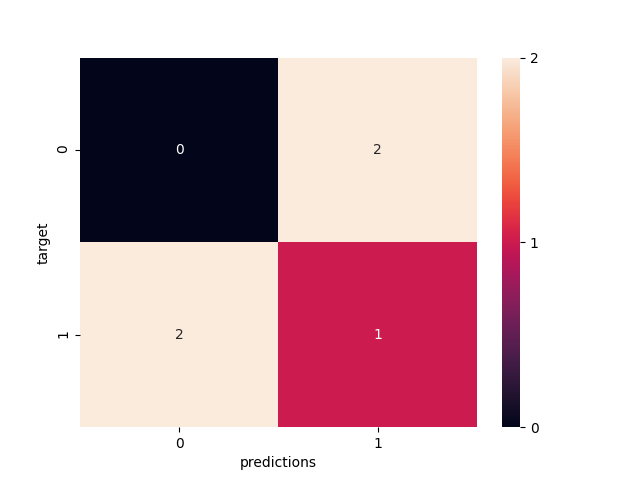
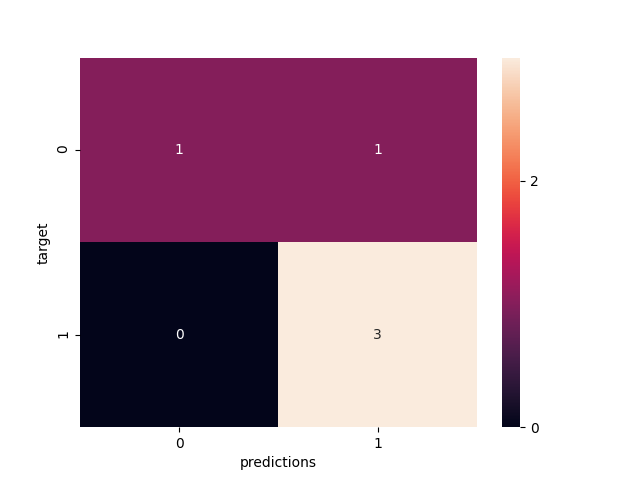
log fullprocess

diff --git a/scripts/fullprocess.py b/scripts/fullprocess.py
@@ -2,51 +2,64 @@ import ast
 import json
 import os
 import sys
+import logging
 
 import pandas as pd
 
 from scripts.scoring import score_model
 
-with open("config.json", "r") as f:
-    config = json.load(f)
+logging.basicConfig(level=logging.INFO, format="%(asctime)-15s %(message)s")
+logger = logging.getLogger()
 
-prod_deployment_path = os.path.join(config["prod_deployment_path"])
-input_folder_path = os.path.join(config["input_folder_path"])
-output_folder_path = config["output_folder_path"]
 
-# Check and read new data
-# first, read ingestedfiles.txt
-with open(prod_deployment_path + "/ingestedfiles.txt", "r") as f:
-    ingestedfiles = ast.literal_eval(f.read())
-# second, determine whether the source data folder has files that aren't listed in ingestedfiles.txt
-current_files = os.listdir(input_folder_path)
-new_files = [x for x in current_files if x not in ingestedfiles]
+def check_new_data(input_folder_path):
+    logging.info(f"Read data from {input_folder_path}")
+    with open(prod_deployment_path + "/ingestedfiles.txt", "r") as f:
+        ingestedfiles = ast.literal_eval(f.read())
+    current_files = os.listdir(input_folder_path)
+    new_files = [x for x in current_files if x not in ingestedfiles]
+    return new_files
 
-# Deciding whether to proceed, part 1
-# if you found new data, you should proceed. otherwise, do end the process here
-if new_files == []:
-    sys.exit()
 
-os.system("python -m scripts.ingestion")
-# Checking for model drift
-# check whether the score from the deployed model is different from the score from the model that uses the newest ingested data
-with open(prod_deployment_path + "/latestscore.txt", "r") as f:
-    latestscore = ast.literal_eval(f.read())
 
-most_recent_data = pd.read_csv(output_folder_path + "/finaldata.csv")
-new_score = score_model(most_recent_data)
-# Deciding whether to proceed, part 2
-# if you found model drift, you should proceed. otherwise, do end the process here
-if new_score >= latestscore:
-    sys.exit()
-else:
-    # Re-deployment
-    # if you found evidence for model drift, re-run the deployment.py script
-    os.system("python -m scripts.training")
-    os.system("python -m scripts.deployment")
+def check_model_drift(output_folder_path, prod_deployment_path, output_model_path):
+    with open(prod_deployment_path + "/latestscore.txt", "r") as f:
+        latestscore = ast.literal_eval(f.read())
 
-# Diagnostics and reporting
-# run diagnostics.py and reporting.py for the re-deployed model
-os.system("python -m scripts.reporting")
-os.system("python -m scripts.app")
-os.system("python -m scripts.apicalls")
+    most_recent_data = pd.read_csv(output_folder_path + "/finaldata.csv")
+    new_score = score_model(prod_deployment_path, output_model_path, most_recent_data, dropped_columns = ['corporation'])
+
+    model_drift = new_score < latestscore
+    return model_drift
+
+
+if __name__ == '__main__':
+    with open("config.json", "r") as f:
+        config = json.load(f)
+
+    prod_deployment_path = os.path.join(config["prod_deployment_path"])
+    input_folder_path = os.path.join(config["input_folder_path"])
+    output_folder_path = config["output_folder_path"]
+    output_model_path = config["output_model_path"]
+
+    new_files = check_new_data(input_folder_path)
+    if new_files == []:
+        logging.info("No new data found, exit the process")
+        sys.exit()
+
+    logging.info("Found new data, ingest it")
+    os.system("python -m scripts.ingestion")
+
+    model_drift = check_model_drift(output_folder_path, prod_deployment_path, output_model_path)
+    if model_drift is False:
+        logging.info("No model drift found, exit the process")
+        sys.exit()
+    else:
+        logging.info("Model drift found, re-training and re-deployment") 
+        os.system("python -m scripts.training")
+        os.system("python -m scripts.deployment")
+    
+    logging.info("Run diagnostics and reporting")
+    os.system("python -m scripts.reporting")
+    os.system("python -m scripts.app")
+    os.system("python -m scripts.apicalls")

diff --git a/scripts/app.py b/scripts/app.py
@@ -2,7 +2,7 @@ import json
 import os
 
 import pandas as pd
-from flask import Flask, request
+from flask import Flask, request, jsonify, make_response
 
 from scripts.diagnostics import (
     dataframe_percent_na,
@@ -13,59 +13,51 @@ from scripts.diagnostics import (
 )
 from scripts.scoring import score_model
 
-# Set up variables for use in our script
 app = Flask(__name__)
-app.secret_key = "1652d576-484a-49fd-913a-6879acfa6ba4"
+app.config.from_pyfile(os.path.join('../settings.py'))
 
 with open("config.json", "r") as f:
     config = json.load(f)
 
 test_data_path = os.path.join(config["test_data_path"])
 output_folder_path = os.path.join(config["output_folder_path"])
-# prediction_model = None
+prod_deployment_path = os.path.join(config["prod_deployment_path"])
+output_model_path = os.path.join(config["output_model_path"])
 
-
-# Prediction Endpoint
 @app.route("/prediction", methods=["GET", "OPTIONS"])
 def prediction():
-    # call the prediction function you created in Step 3
     filename = request.args.get("filename")
     thedata = pd.read_csv(filename)
     preds = model_predictions(thedata)
-    return str(preds)  # add return value for prediction outputs
+    return make_response(jsonify(preds), 200) 
 
 
-# Scoring Endpoint
 @app.route("/scoring", methods=["GET", "OPTIONS"])
 def scoring():
-    # check the score of the deployed model
     filename = test_data_path + "/testdata.csv"
     thedata = pd.read_csv(filename)
-    f1_test = score_model(thedata)
-    return str(f1_test)  # add return value (a single F1 score number)
+    f1_test = score_model(prod_deployment_path, output_model_path, thedata, dropped_columns = ['corporation'])
+    return make_response(jsonify(f1_test), 200)
 
 
-# Summary Statistics Endpoint
 @app.route("/summarystats", methods=["GET", "OPTIONS"])
 def summarystats():
-    # check means, medians, and modes for each column
     filename = output_folder_path + "/finaldata.csv"
     thedata = pd.read_csv(filename)
     df_summary = dataframe_summary(thedata)
-    return str(df_summary)  # return a list of all calculated summary statistics
+    return make_response(jsonify(df_summary), 200) 
 
 
-# Diagnostics Endpoint
 @app.route("/diagnostics", methods=["GET", "OPTIONS"])
 def diagnostics():
     filename = output_folder_path + "/finaldata.csv"
     thedata = pd.read_csv(filename)
-    # check timing and percent NA values
     return_time = execution_time()
     na_percent = dataframe_percent_na(thedata)
     outdated_req = outdated_packages_list()
-    return str(return_time) + "\n" + str(na_percent) + "\n" + str(outdated_req)
+    diagnostics_response = str(return_time) + '\n' + str(na_percent) + '\n' + str(outdated_req)
+    return diagnostics_response
 
 
 if __name__ == "__main__":
-    app.run(host="0.0.0.0", port=8000)
+    app.run(host="0.0.0.0", port=8000, debug=True, threaded=True)

diff --git a/scripts/diagnostics.py b/scripts/diagnostics.py
@@ -4,9 +4,13 @@ import os
 import pickle
 import subprocess
 import timeit
+import logging
 
 import numpy as np
 import pandas as pd
+
+logging.basicConfig(level=logging.INFO, format="%(asctime)-15s %(message)s")
+logger = logging.getLogger()
 
 with open("config.json", "r") as f:
     config = json.load(f)
@@ -16,33 +20,38 @@ prod_deployment_path = os.path.join(config["prod_deployment_path"])
 
 
 def model_predictions(input_data):
+    logger.info("Running function model_predictions")
+    logger.info(f"Reading model from {prod_deployment_path}/trainedmodel.pkl")
     with open(prod_deployment_path + "/" + "trainedmodel.pkl", "rb") as f:
         model = pickle.load(f)
     X_test = np.array(
         input_data[["lastmonth_activity", "lastyear_activity", "number_of_employees"]]
     )
+    logger.info("Calculating predictions")
     preds = model.predict(X_test).tolist()
     return preds 
 
 
 def dataframe_summary(input_data):
+    logger.info("Running function dataframe_summary")
     numeric_cols = list(input_data.select_dtypes("number").columns)
-    means_list = input_data[numeric_cols].mean(axis=0).tolist()
-    medians_list = input_data[numeric_cols].median(axis=0).tolist()
-    std_list = input_data[numeric_cols].std(axis=0).tolist()
-    statistics_list = means_list + medians_list + std_list
+    stats = input_data[numeric_cols].agg(["mean", "median", "std"])
+    statistics_list = stats.values.reshape(-1, 1).ravel().tolist()
     return statistics_list
 
 
 def dataframe_percent_na(input_data):
+    logger.info("Running function calculating the percent of NA")
     return (input_data.isna().sum() / input_data.shape[0]).tolist()
 
 
 def execution_time():
+    logger.info("Calculating ingestion execution time")
     start_ingestion_time = timeit.default_timer()
     os.system("python scripts/ingestion.py")
     ingestion_time = timeit.default_timer() - start_ingestion_time
 
+    logger.info("Calculating training execution time")
     start_training_time = timeit.default_timer()
     os.system("python scripts/training.py")
     training_time = timeit.default_timer() - start_training_time
@@ -52,6 +61,7 @@ def execution_time():
 
 
 def outdated_packages_list():
+    logger.info("Finding outdated packages")
     out = subprocess.run(
         ["pip", "list", "--outdated"], capture_output=True, text=True
     ).stdout

diff --git a/scripts/apicalls.py b/scripts/apicalls.py
@@ -1,33 +1,37 @@
 import json
 import os
+import logging
 
 import requests
 
-# Specify a URL that resolves to your workspace
+logging.basicConfig(level=logging.INFO, format="%(asctime)-15s %(message)s")
+logger = logging.getLogger()
+
 URL = "http://127.0.0.1:8000"
 
 with open("config.json", "r") as f:
     config = json.load(f)
 output_model_path = os.path.join(config["output_model_path"])
 
-# Call each API endpoint and store the responses
-response1 = requests.get(f"{URL}/prediction?filename=testdata/testdata.csv").content
-response2 = requests.get(f"{URL}/scoring").content
-response3 = requests.get(f"{URL}/summarystats").content
-response4 = requests.get(f"{URL}/diagnostics").content
+logger.info("Prediction endpoint")
+response_prediction = requests.get(f"{URL}/prediction?filename=testdata/testdata.csv").content
+logger.info("Scoring endpoint")
+response_scoring = requests.get(f"{URL}/scoring").content
+logger.info("Summarystats endpoint")
+response_summarystats = requests.get(f"{URL}/summarystats").content
+logger.info("Diagnostics endpoint")
+response_diagnostics = requests.get(f"{URL}/diagnostics").content
 
-# combine all API responses
 responses = (
-    response1.decode()
+    response_prediction.decode()
     + "\n"
-    + response2.decode()
+    + response_scoring.decode()
     + "\n"
-    + response3.decode()
+    + response_summarystats.decode()
     + "\n"
-    + response4.decode()
+    + response_diagnostics.decode()
 )
 
-# write the responses to your workspace
-
+logger.info(f"Write all responses to {output_model_path}/apireturns.txt")
 with open(output_model_path + "/apireturns.txt", "w") as f:
     f.write(responses)

diff --git a/scripts/reporting.py b/scripts/reporting.py
@@ -5,10 +5,13 @@ import matplotlib.pyplot as plt
 import pandas as pd
 import seaborn as sns
 from sklearn.metrics import confusion_matrix
+import logging 
 
 from scripts.diagnostics import model_predictions
 
-# Load config.json and get path variables
+logging.basicConfig(level=logging.INFO, format="%(asctime)-15s %(message)s")
+logger = logging.getLogger()
+
 with open("config.json", "r") as f:
     config = json.load(f)
 
@@ -16,22 +19,20 @@ test_data_path = os.path.join(config["test_data_path"])
 output_model_path = os.path.join(config["output_model_path"])
 
 
-# Function for reporting
-def score_model(test_data):
+def save_confusion_matrix(test_data):
+    logger.info('Calculate predictions on test data')
     preds = model_predictions(test_data)
     y_test = test_data["exited"].tolist()
-    # calculate a confusion matrix using the test data and the deployed model
     conf_mat = confusion_matrix(y_test, preds)
-    # write the confusion matrix to the workspace
     fig, ax = plt.subplots()
     sns.heatmap(conf_mat, annot=True)
     ax.set_xlabel("predictions")
     ax.set_ylabel("target")
     plt.rc("font", size=50)
     fig.show()
+    logger.info(f"Save confusion matrix to {output_model_path} folder")
     fig.savefig(output_model_path + "/confusionmatrix.png")
-
 
 if __name__ == "__main__":
     test_data = pd.read_csv(test_data_path + "/testdata.csv")
-    score_model(test_data)
+    save_confusion_matrix(test_data)

diff --git a/settings.py b/settings.py
@@ -1,0 +1,3 @@
+from os import environ 
+
+SECRET_KEY = environ.get('SECRET_KEY')

diff --git a/README.md b/README.md
@@ -57,3 +57,14 @@ Then in a new terminal window run:
 ```bash
 curl 127.0.0.1:8000/prediction?filename=testdata/testdata.csv
 ```
+
+## Using cron to run fullprocess 
+```bash
+service cron start
+crontab -e
+```
+
+For example, to run fullprocess script every 10 mins write in crontab:
+```bash
+*/10 * * * * python -m scripts.fullprocess
+```
